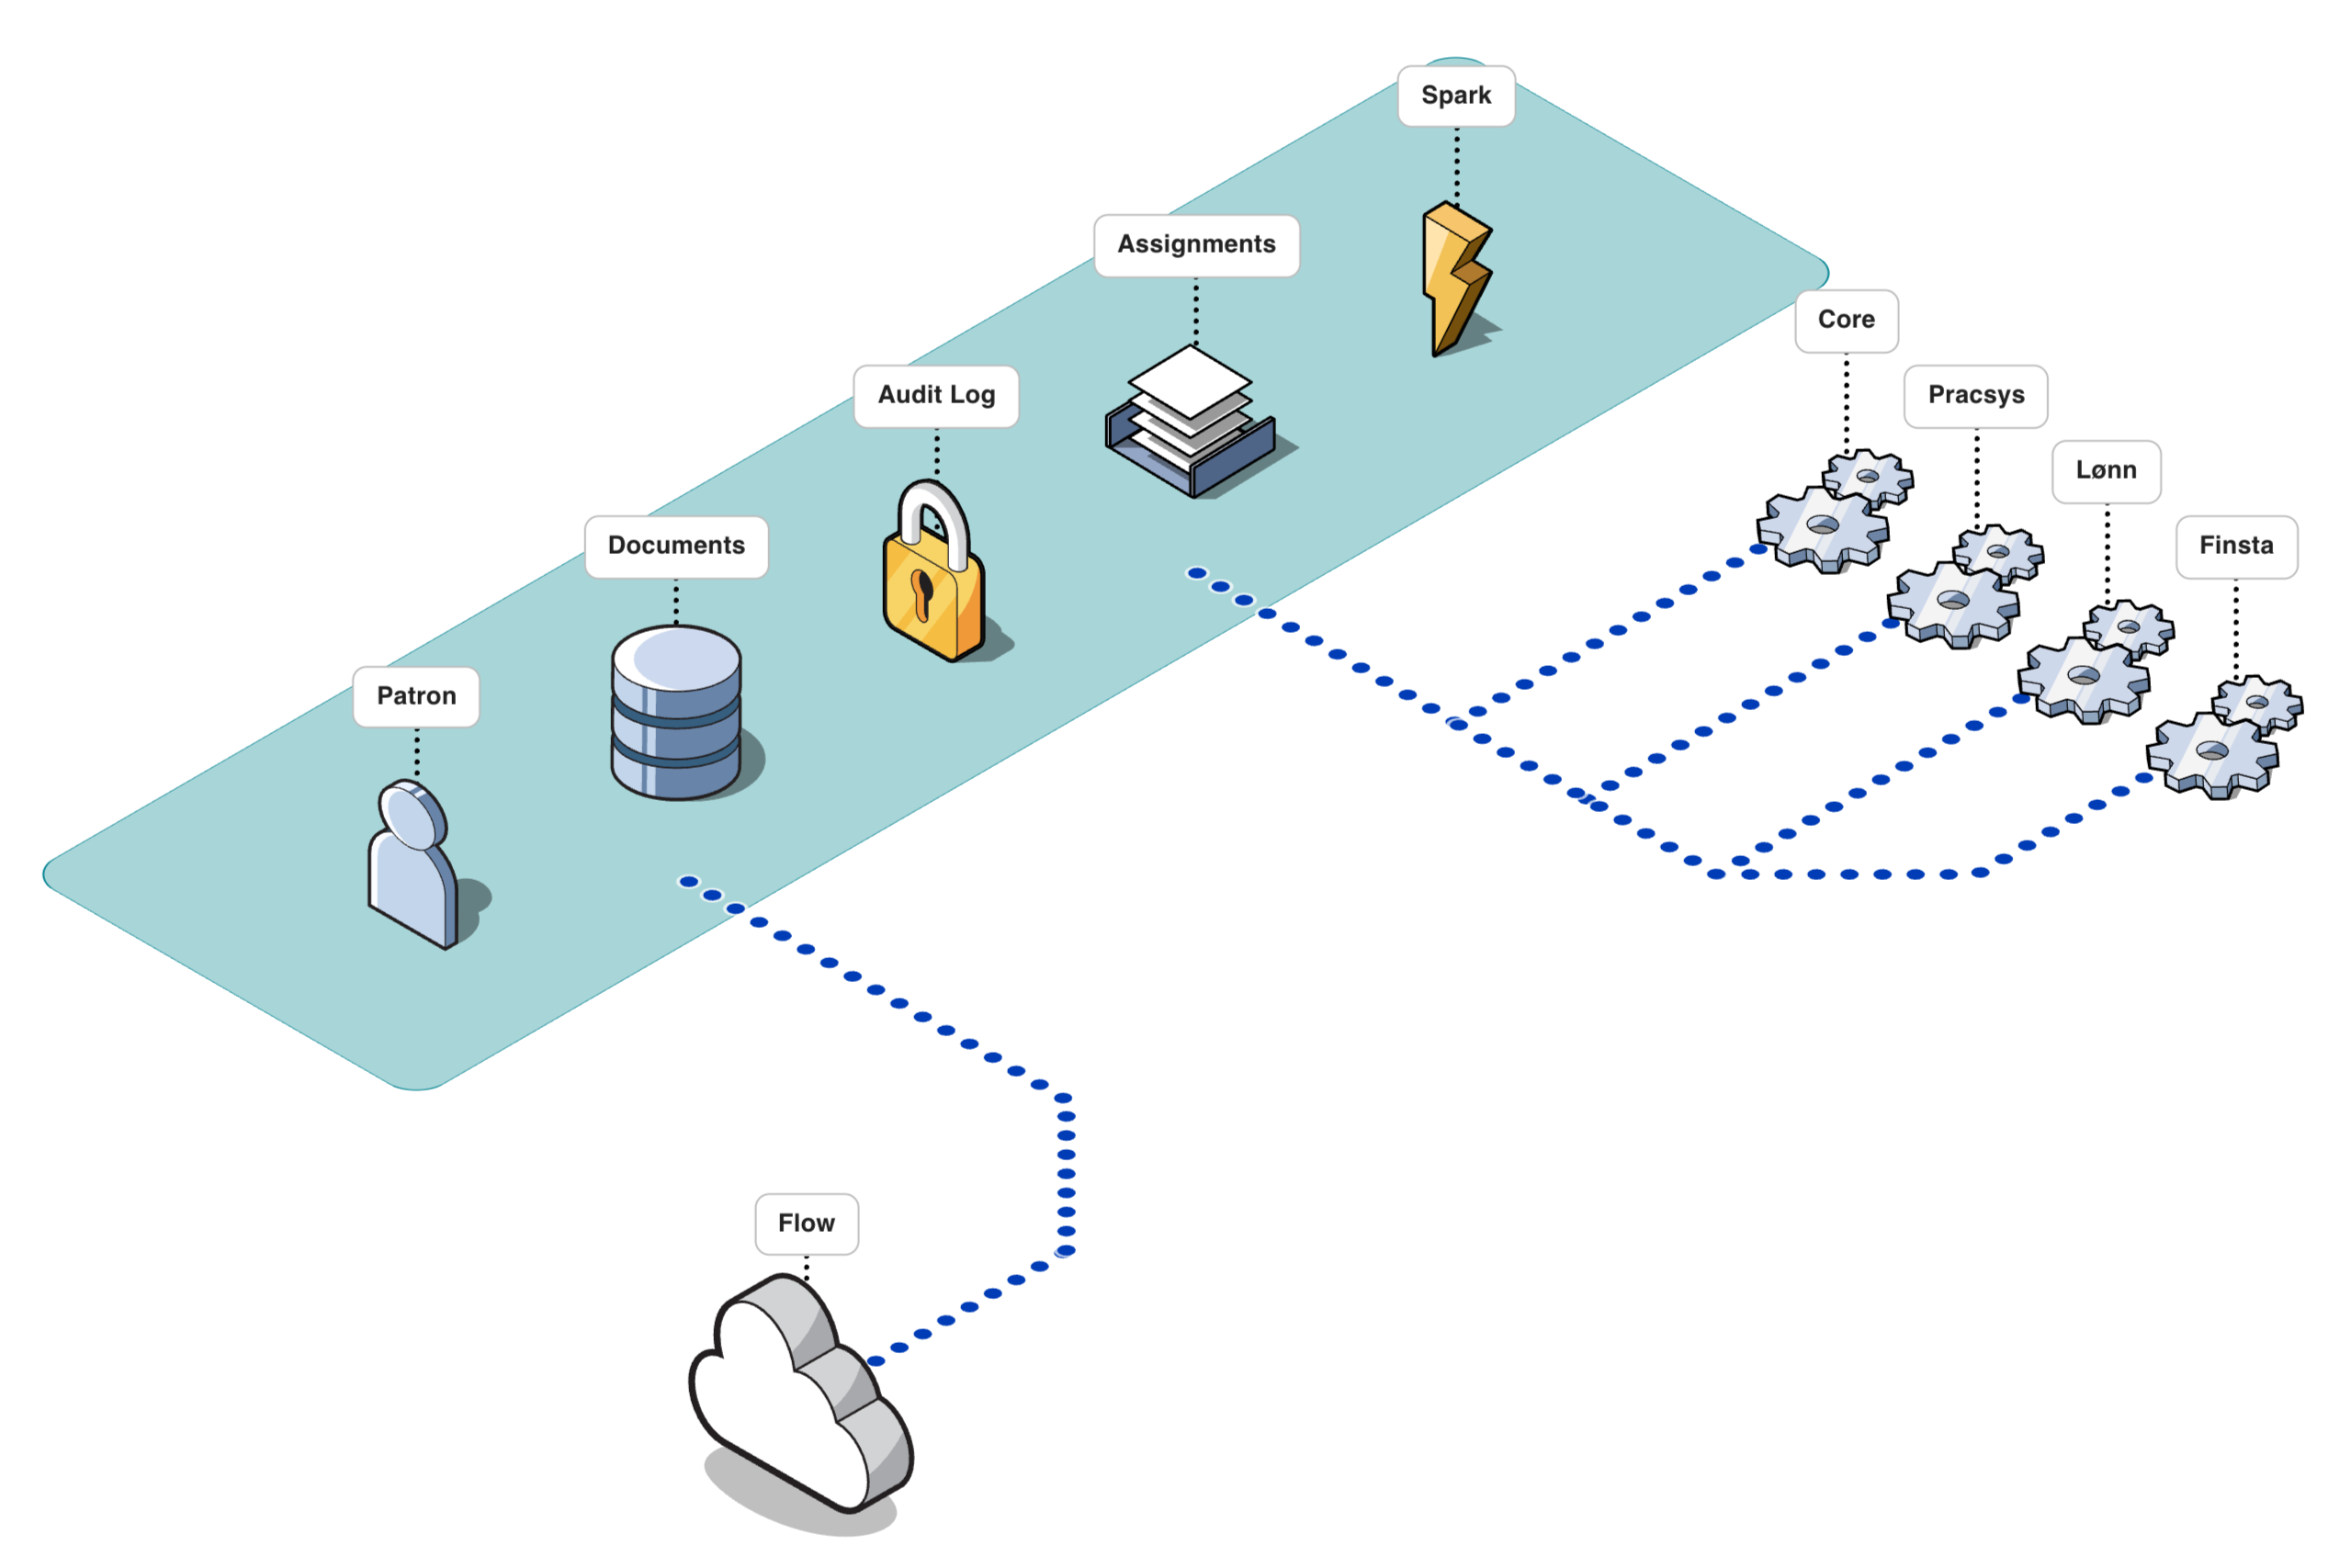
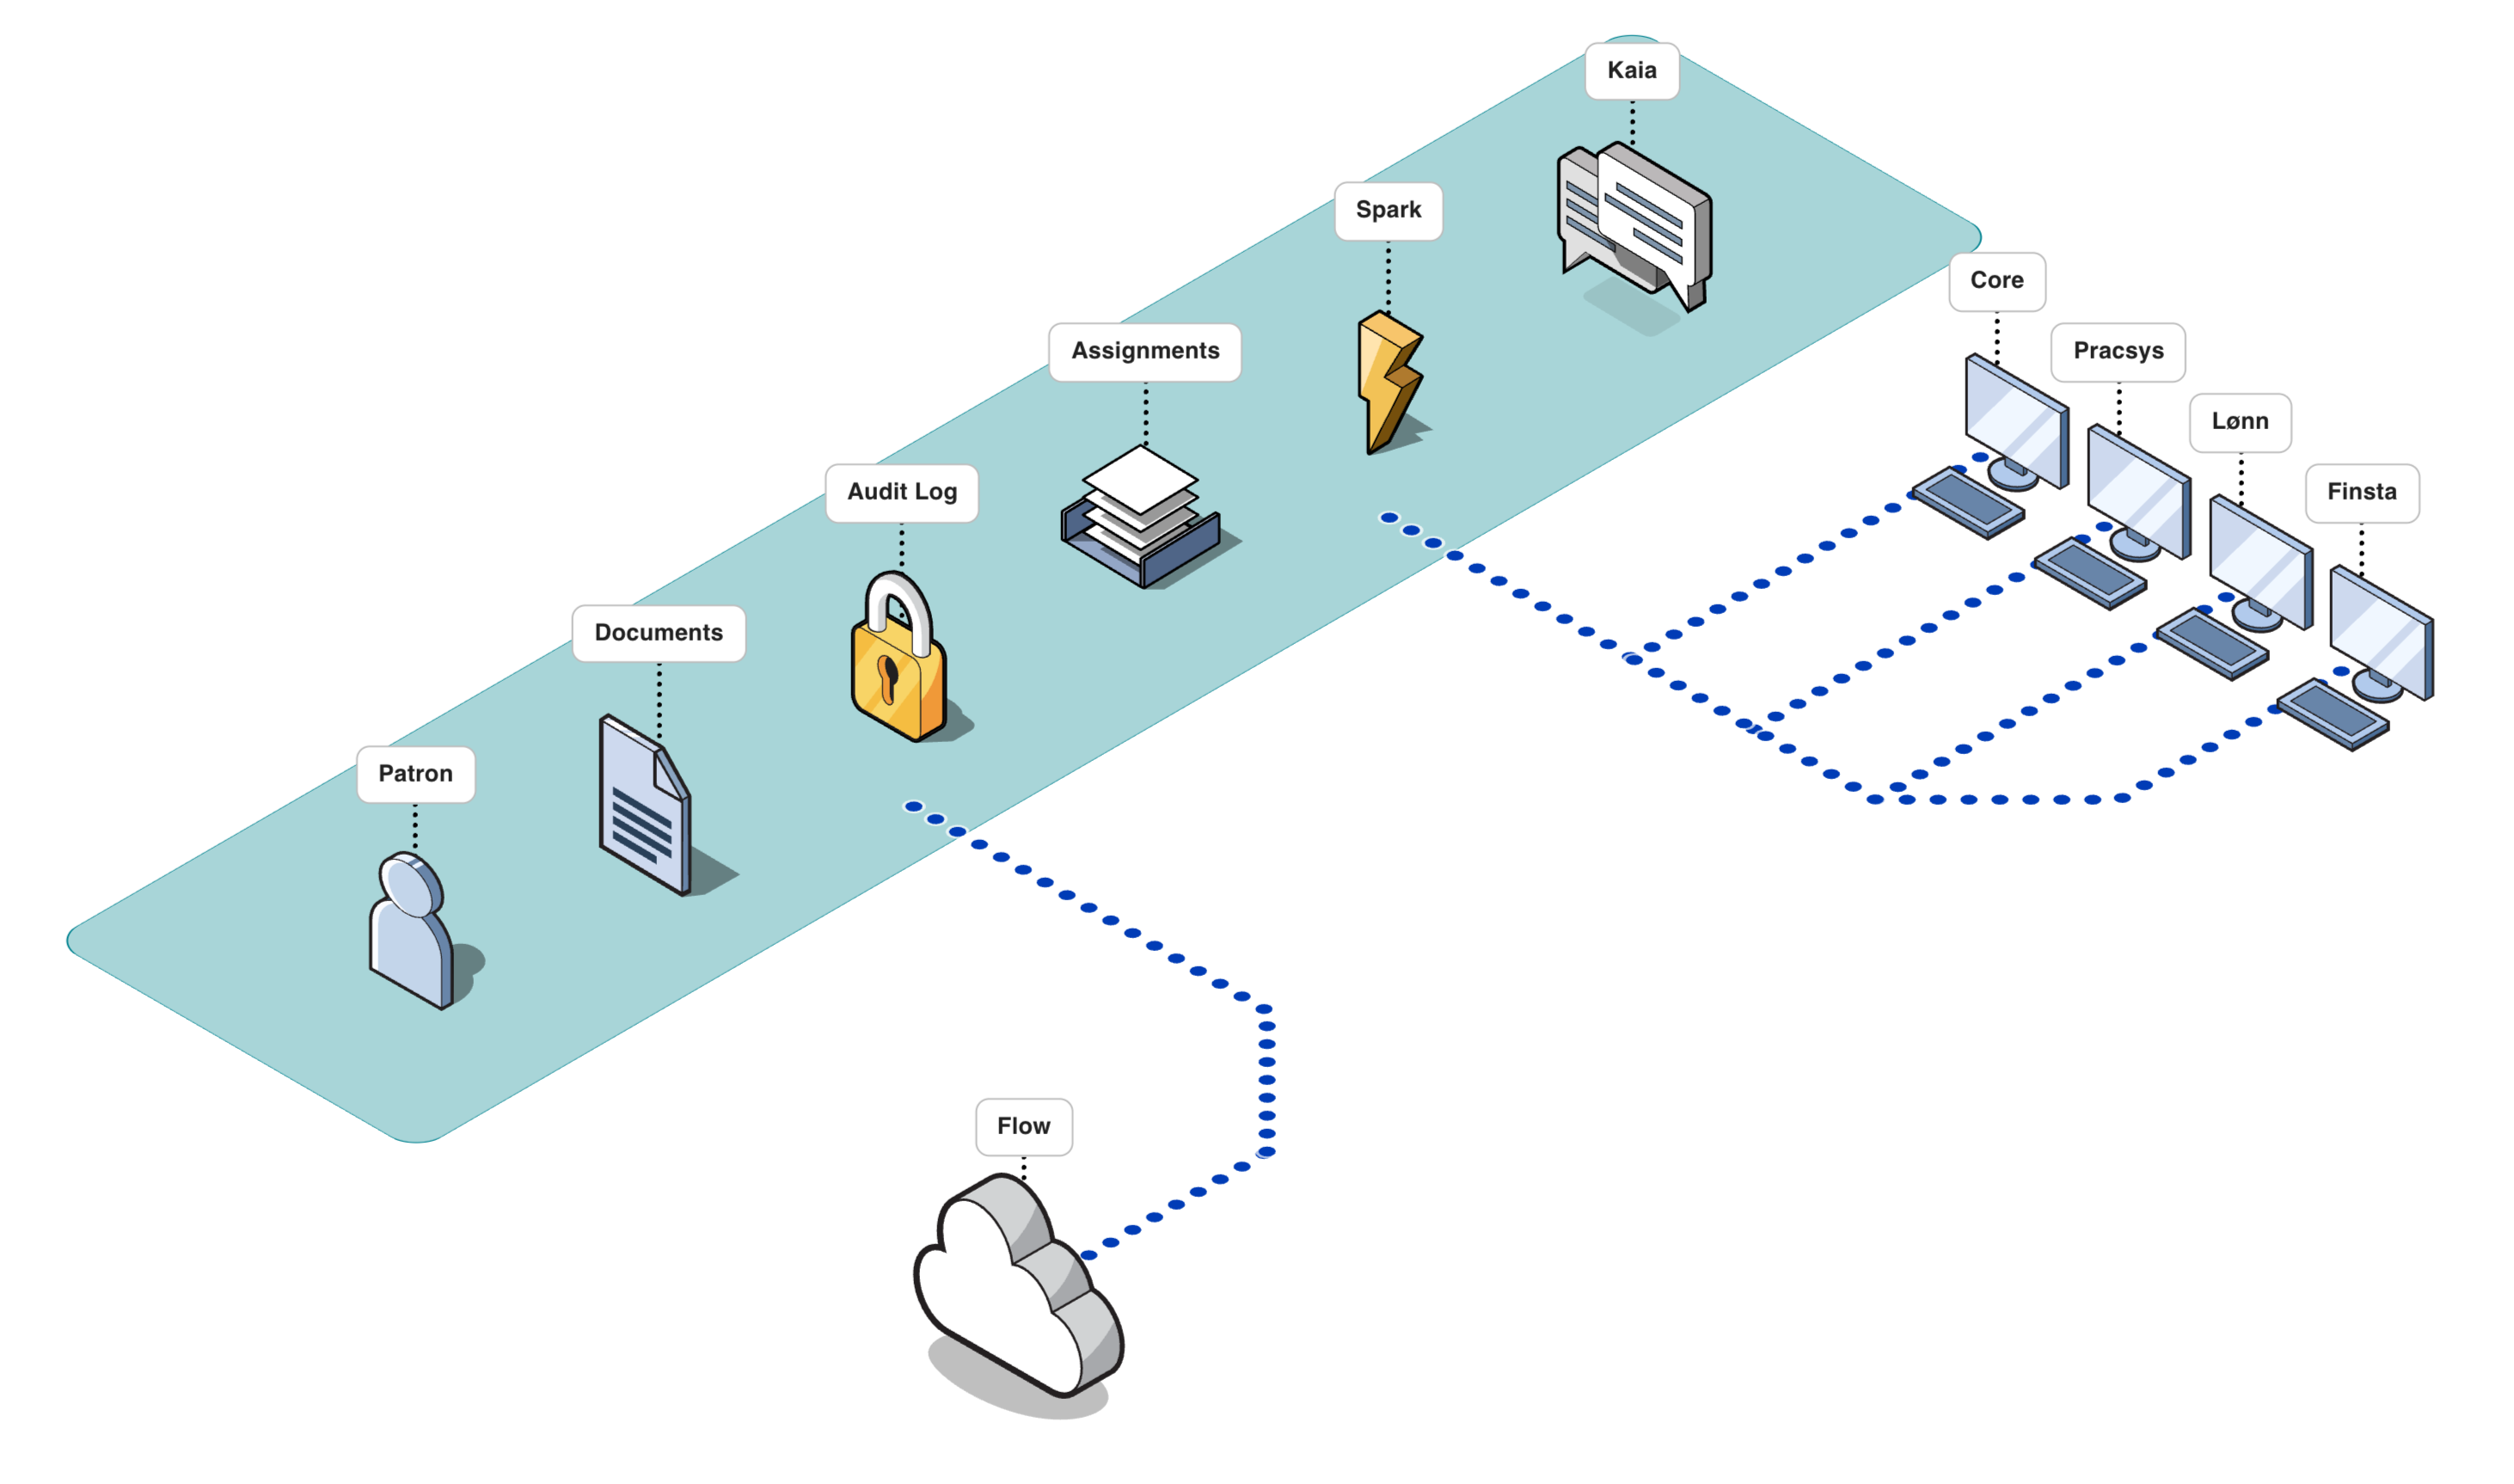
## - stuff

diff --git a/index.html b/index.html
@@ -31,124 +31,115 @@
         </section>
 
         <section>
-            <h2>Agenda</h2>
-            <ul class="fragment">
-                <li>Hva?</li>
-                <li>Hvorfor?</li>
-                <li>Hvem?</li>
-                <li>Når?</li>
-            </ul>
+            <section data-background-color="transparent">
+                <h2>Agenda</h2>
+                <ul>
+                    <li>Hva</li>
+                    <li>Hvem</li>
+                    <li>Hvordan</li>
+                    <li>Hvorfor</li>
+                    <li>Når</li>
+                </ul>
+            </section>
+
+            <section data-background-color="transparent">
+                <h2>Agenda</h2>
+                <ul>
+                    <li class="fragment">Historie</li>
+                    <li>Hvorfor</li>
+                    <li>Hva</li>
+                    <li>Hvem</li>
+                    <li>Hvordan</li>
+                    <li>Når</li>
+                </ul>
+            </section>
         </section>
 
         <section>
-            <section>
-                <h2>Hvorfor?</h2>
-                <div>3 år med observerte smerter, utfordringer, muligheter</div>
-                <ul class="fragment">
-                    <li>Gammeldagse arbeidsflyter</li>
-                    <li>Tunge, gammeldagse system (eller Excel)</li>
-                    <li>Eierskap til dokumentasjon</li>
-                    <li>Eierskap til automasjon</li>
-                    <li>Eierskap til automasjon</li>
-                </ul>
-            </section>
-
-            <section>
-                <h2>Vår visjon TODO: cleanup</h2>
-                <ul>
-                    <li>99(?)% automatisert regnskap</li>
-                    <li>Bedre service fra byrå -> mer fornøyde kunder > bedre kvalitet på arbeidet</li>
-                    <li>Skapt for å skape vekst: Kaia (?) fag AI trent på kundedatabase -> 3 nivå av AI støtte</li>
-                    <li> - Til sluttbruker virksomhet direkte (slik kan du forbedre din drift)</li>
-                    <li> - Til byrå mot sluttbruker (slik kan du yte de bedre service)</li>
-                    <li> - Til byrå for byrå (slik kan du forbedre din drift)</li>
-                </ul>
-            </section>
-
-
-            <section>
-                <h2>Hva?</h2>
-                <ul>
-                    <li class="fragment">
-                        <span>Multiklient</span>
-                        <span>-automasjon</span>
-                        <span>-batch</span>
-                        <span>-notifikasjon</span>
-                        <span>-regnskap</span>
-                        <span>-økonomi</span>
-                        <span>-KI</span>
-                        <span>-prediksjon</span>
-                        <span>-scanning</span>
-                        <span>-dokumenthåndtering</span>
-                        <span>-arbeidsflyt</span>
-                        <span>-oppgave</span>
-                        <span>-sjekkliste</span>
-                        <span>-onboarding</span>
-                        <span>-ansatte</span>
-                        <span>-kontrollpunkt</span>
-                        <span>-virksomheter</span>
-                        <span>-kundekontroll</span>
-                        <span>-timeføring</span>
-                        <span>-leads</span>
-                        <span>-PEP</span>
-                        <span>-oppdrag</span>
-                        <span>-konsern</span>
-                        <span>-avstemming</span>
-                        <span>-... </span>
-                        <span class="fragment">system</span>
-                    </li>
-                </ul>
-            </section>
-
-            <section data-background-color="transparent">
-                <video src="assets/onboarding-flow-trimmed.webm" controls playsinline muted preload="auto" data-autoplay style="max-width:100%; max-height:70vh;"></video>
-            </section>
-
-            <section data-background-color="transparent">
-                <video src="assets/melding-til-email.webm" controls playsinline muted preload="auto" data-autoplay style="max-width:100%; max-height:70vh;"></video>
-            </section>
-
-            <section data-background-color="transparent">
-                <video src="assets/sjekkliste.webm" controls playsinline muted preload="auto" data-autoplay style="max-width:100%; max-height:70vh;"></video>
-            </section>
+            <h2>Hvorfor?</h2>
+            <ul>
+                <li class="fragment">3 år med observert, dokumentert og kvalifisert <span class="bad">smerte</span></li>
+                <li class="fragment">Tung, manuell onboarding</li>
+                <li class="fragment">Kundekontroll 🤮</li>
+                <li class="fragment">Oversikt og håndtering av ansatte, fravær, ansvar,...</li>
+                <li class="fragment">Manglende oversikt på tvers av klienter</li>
+                <li class="fragment">Eierskap til automasjon</li>
+                <li class="fragment">Dokumenthåndtering</li>
+                <li class="fragment">Excel-<span style="text-decoration: line-through">helvete</span> utfordringer</li>
+            </ul>
         </section>
 
-        <section data-background-color="transparent">
-            <h2>Hvorfor?</h2>
 
+        <section>
+            <section>
+
+                <h2>Hva?</h2>
+                <h2 class="fragment"><strong class="bad">Smerte</strong> = <strong>muligheter</strong></h2>
+                <ul>
+                    <li class="fragment">AI-drevet, bulk onboarding</li>
+                    <li class="fragment">Total oversikt med live data, integrerte system og multipanel</li>
+                    <li class="fragment">Automasjon — Sparks og Kaia</li>
+                    <li class="fragment">Kontrolltårnet — oversikt og orkestrering</li>
+                </ul>
+            </section>
+            <section>
+                <h2>En <strong>visjon</strong></h2>
+                <ul>
+                    <li class="fragment">95% av arbeidet i et byrå kan automatiseres</li>
+                    <li class="fragment">Mer tid til klientene → bedre service</li>
+                    <li class="fragment">Bedre service → flere klienter → byrået vokser</li>
+                </ul>
+            </section>
         </section>
 
         <section data-background-color="transparent">
             <h2>Hvem?</h2>
             <ul>
                 <li class="fragment">Regnskapsbyrå</li>
-                <li class="fragment">Konsern med datterselskaper</li>
+                <li class="fragment">Konsern</li>
             </ul>
+        </section>
+
+        <section>
+            <section data-background-color="transparent">
+                <h2>Hvordan?</h2>
+                <img src="assets/system.png" alt="systemdiagram" style="width:100%; max-width: 859px">
+            </section>
+
+            <section data-background-color="transparent">
+                <h3>Onboarding</h3>
+                <p>Nordisk tillit, kort vei fra signatur til drift</p>
+                <video src="assets/onboarding-flow-trimmed.webm" controls playsinline muted preload="auto" data-autoplay
+                       style="max-width:100%; max-height:60vh;"></video>
+            </section>
+
+            <section data-background-color="transparent">
+                <h3>Korrespondanse <-> dokumentasjon</h3>
+                <p></p>
+                <video src="assets/melding-til-email.webm" controls playsinline muted preload="auto" data-autoplay
+                       style="max-width:100%; max-height:60vh;"></video>
+            </section>
+
+            <section data-background-color="transparent">
+                <h3>Kontrolltårn</h3>
+                <p>Live status og sjekklister på tvers av alle klienter</p>
+                <video src="assets/sjekkliste.webm" controls playsinline muted preload="auto" data-autoplay
+                       style="max-width:100%; max-height:60vh;"></video>
+            </section>
+        </section>
+
+        <section>
+            <section data-background-color="transparent">
+                <h2>Når?</h2>
+            </section>
         </section>
 
 
         <section data-background-color="transparent">
-            <h2>Hvordan?</h2>
-            <section>
-                <img src="assets/system.png" alt="future diag" class="fragment" style="width:100%; max-width: 859px">
-            </section>
-            <section>
-            <ul>
-                <li class="fragment">AI drevet orkestrering og gjennomføring</li>
-                <li class="fragment">Bulk-operasjoner mot Patron</li>
-                <li class="fragment">Live status fra fagsystem</li>
-            </ul>
-            </section>
+            <img src="assets/conta-logo-light.svg" alt="" style="width:200px; margin-bottom: 20px;">
+            <h2 class="flow-word"><strong>Skapt</strong> for å <strong>skape vekst</strong></h2>
+            <p class="title-sub fragment">— nå også for <strong style="font-size: 1.5em">byrå</strong></p>
         </section>
-
-        <section data-background-color="transparent">
-            <h2>Når?</h2>
-            <ul>
-                <li class="fragment">In-house først — Conta Group og Punch</li>
-                <li class="fragment">Soft-launch</li>
-            </ul>
-        </section>
-
     </div>
 </div>
 

diff --git a/theme.css b/theme.css
@@ -6,6 +6,7 @@
     --flow-fg-muted: #4a4a4a;
     --flow-primary: #006C30;
     --flow-secondary: #45BA76;
+    --flow-danger: #F44336;
     --flow-accent: #FBF4E3;
 }
 
@@ -187,4 +188,9 @@ html, body, .reveal {
 
 .flex {
     display: flex;
+}
+
+.bad {
+    color: var(--flow-danger);
+    font-weight: 600;
 }